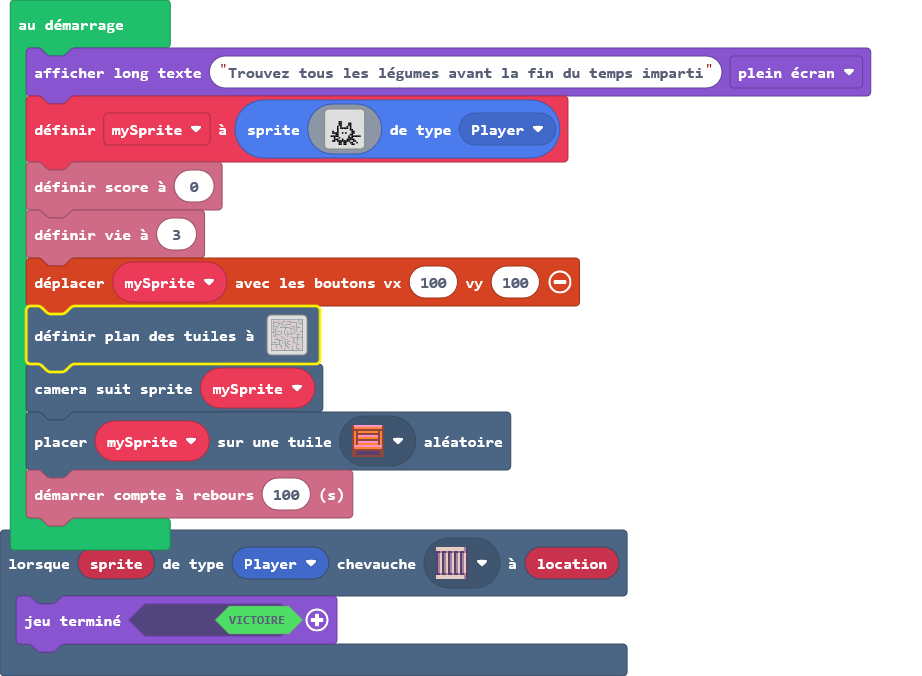
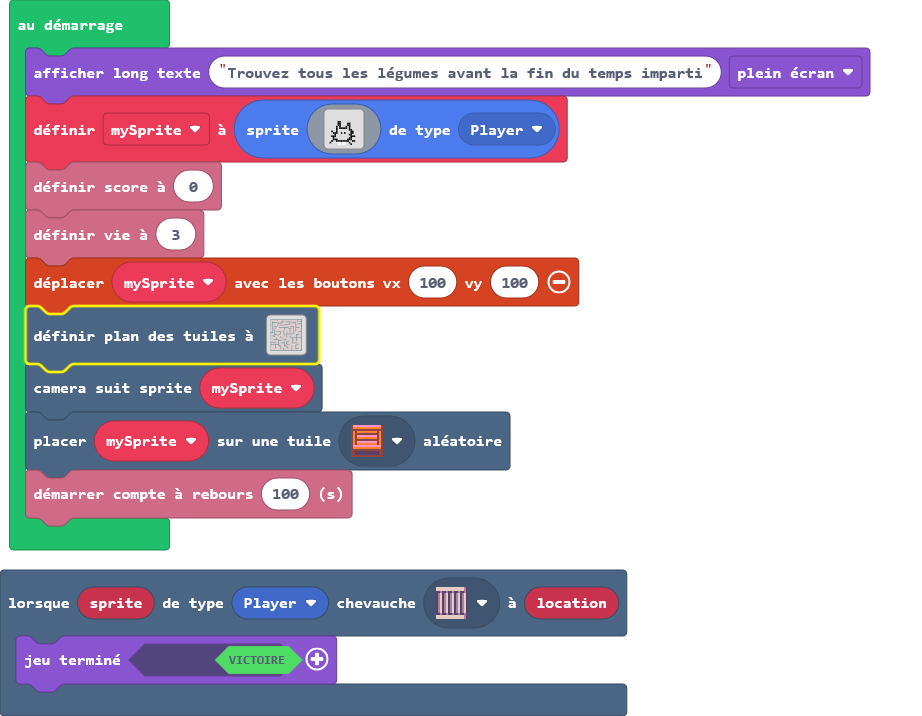
Mise à jour main.blocks, main.ts, tilemap.g.jres, tilemap.g.ts, images.g.jres, images.g.ts

Changed region(s): [[0.0, 0.0311, 0.9718, 0.963]]

diff --git a/main.ts b/main.ts
@@ -15,14 +15,14 @@ let mySprite = sprites.create(img`
     .....f.fffff.f......
     .....f.......ff.....
     ..f..f........ff....
-    ..ffff..f.f...ff....
-    ....ff.......ff.....
-    .fffff......f.ffffff
-    ...f..f.....fff.....
-    ...fff..f..fffff....
-    ..ff.ffffffff..ff...
-    ......ff.ff..ff..f..
-    ......ff.ff...ff....
+    ...fff..f.f...ff....
+    ....f........ff.....
+    ..fff.........fff...
+    ...f.........ff.....
+    ...fff......fff.....
+    ..f..ffffffff..ff...
+    .f....11.11..f......
+    ......11.11...f.....
     `, SpriteKind.Player)
 info.setScore(0)
 info.setLife(3)

diff --git a/images.g.ts b/images.g.ts
@@ -16,14 +16,14 @@ namespace myImages {
 .....f.fffff.f......
 .....f.......ff.....
 ..f..f........ff....
-..ffff..f.f...ff....
-....ff.......ff.....
-.fffff......f.ffffff
-...f..f.....fff.....
-...fff..f..fffff....
-..ff.ffffffff..ff...
-......ff.ff..ff..f..
-......ff.ff...ff....
+...fff..f.f...ff....
+....f........ff.....
+..fff.........fff...
+...f.........ff.....
+...fff......fff.....
+..f..ffffffff..ff...
+.f....11.11..f......
+......11.11...f.....
 `;
         }
         return null;

diff --git a/tilemap.g.ts b/tilemap.g.ts
@@ -43,7 +43,7 @@ namespace myTiles {
 2...2...2.............22.....22222..2...2........2
 2...2..2..............2........2....2...2........2
 2...2..2..............2........2....2...2........2
-2...2..2..............2........2....2...2........2
+....2..2..............2........2....2...2........2
 2...2..2.............2.........2.....2..2........2
 2...2..2..2222222....2....2....2.....2..2....22222
 2...2..2........2....2....2....2.....2......2....2
